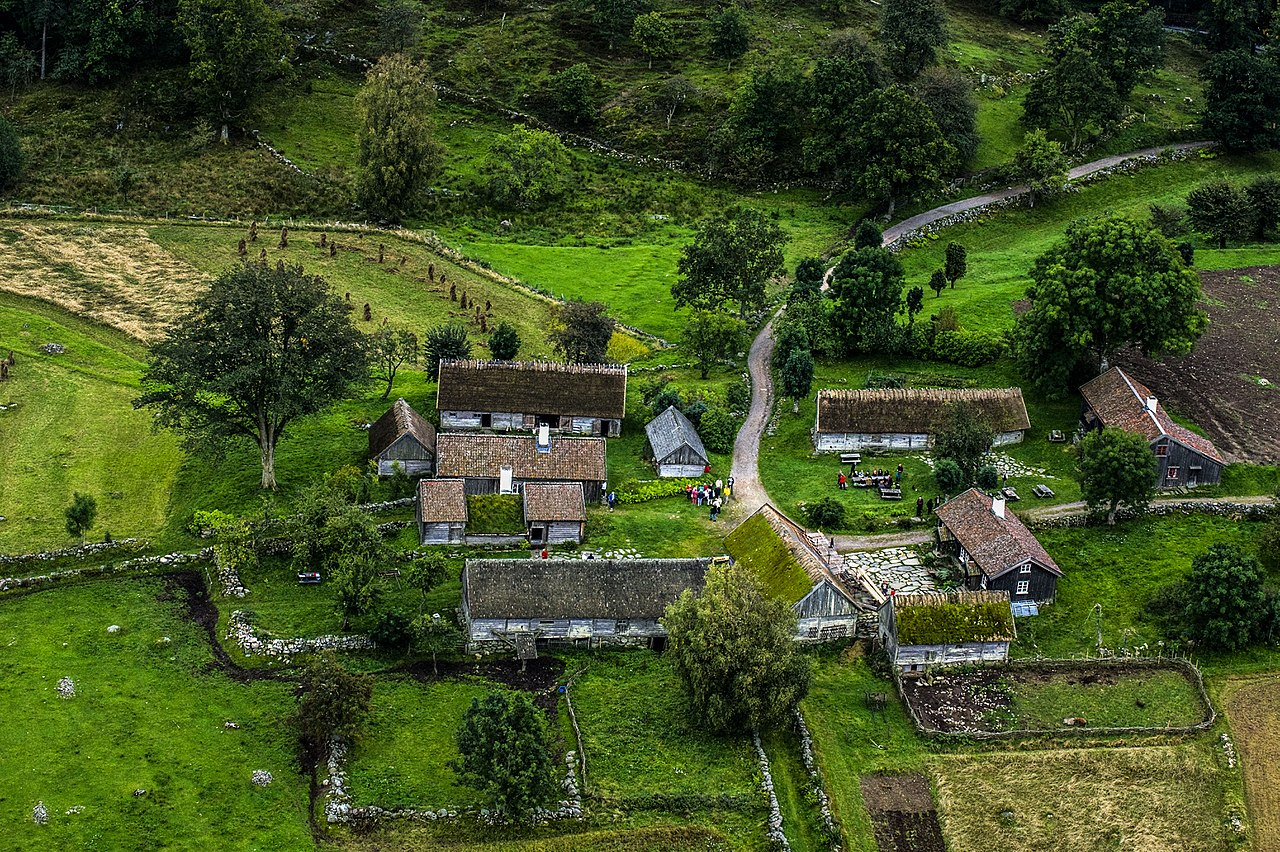
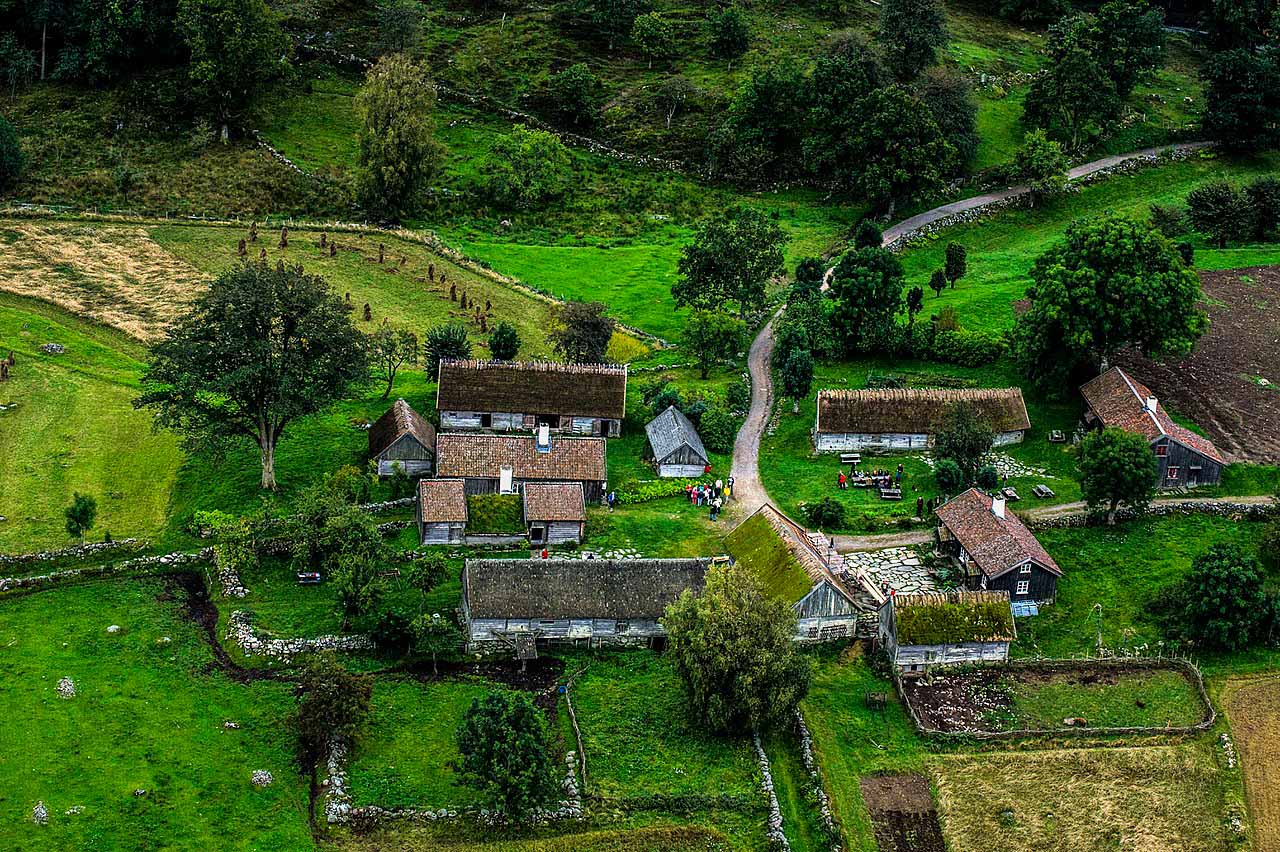
bild storlek
Ändrat bildstorlekarna på bilderna. Rensat onördig kod

diff --git a/Utflykter.html b/Utflykter.html
@@ -45,13 +45,13 @@
   <div id="slideshow1" class="phone">
     <div id="slideshow-container">
       <div class="slideshow_1">
-        <img src="img/Utflykter_bohus_1.1.jpg" alt="Bild på bohus fästning ovanifrån">
+        <img src="img/Utflykter_bohus_1.jpg" alt="Bild på bohus fästning ovanifrån">
       </div>
       <div class="slideshow_1">
-        <img src="img/Utflykter_bohus_2.2.jpg" alt="Bild på bohus fästning inifrån">
+        <img src="img/Utflykter_bohus_2.jpg" alt="Bild på bohus fästning inifrån">
       </div>
       <div class="slideshow_1"> 
-        <img src="img/Utflykter_bohus_3.3.jpg" alt="Bild på bohus fästning ovanifrån">
+        <img src="img/Utflykter_bohus_3.jpg" alt="Bild på bohus fästning ovanifrån">
       </div>
       <a class="prev" onclick="plusSlides(-1, 0)">&#10094;</a>
       <a class="next" onclick="plusSlides(1, 0)">&#10095;</a>
@@ -151,7 +151,7 @@
       </div>
 
       <div id="pic_1_d" class="desktop">
-      <img src="img/Utflykter_bohus_dator.jpg" alt="">
+      <img src="img/Utflykter_bohus_dator.jpg" alt="Bild på bohus fästning">
       </div>
       <div id="txt_1_d" class="desktop">
         <h2>1. Bohus fästning – En spännande historia</h2>
@@ -165,7 +165,7 @@
       </div>
 
       <div id="pic_2_d" class="desktop">
-      <img src="img/Utflykter_äskhults_by_dator.jpg" alt="">
+      <img src="img/Utflykter_äskhults_by_dator.jpg" alt="Bild på äskhults by">
       </div>
       <div id="txt_2_d" class="desktop">
         <h2>2. Äskhults By – En resa tillbaka</h2>
@@ -179,7 +179,7 @@
       </div>
 
       <div id="pic_3_d" class="desktop">
-      <img src="img/Utflykter_kättilsröds-4h_dator.jpg" alt="">
+      <img src="img/Utflykter_kättilsröds-4h_dator.jpg" alt="Bild på kättilsröds-4h gård">
       </div>
       <div id="txt_3_d" class="desktop">
         <h2>3. Kättilsröds 4H-gård – Lekfull bondgård</h2>
@@ -193,7 +193,7 @@
       </div>
 
       <div id="pic_4_d" class="desktop">
-        <img src="img/Utflykter_aeroseum_dator.jpg" alt="">
+        <img src="img/Utflykter_aeroseum_dator.jpg" alt="Bild på museumet aeroseum">
       </div>
       <div id="txt_4_d" class="desktop">
         <h2>4. Aeroseum - Flygmuseum i Göteborg</h2>

diff --git a/css/css.css b/css/css.css
@@ -585,18 +585,12 @@ h1{
         grid-area: b1;
         position: relative;
         overflow: hidden;
-        background-image: url(../img/Adobe\ Express\ -\ file\ \(1\).jpg);
+        background-image: url(../img/Index_1.jpg);
         background-size: cover; 
         background-repeat: no-repeat;
         background-position: center center;        
     }
-  
-    #img1 img {
-        width: 100%;
-        height: auto;
-        display: block;
-        
-    }
+
 
     #img2 {
         padding: 20px;
@@ -604,7 +598,6 @@ h1{
         overflow: hidden;
         box-sizing: border-box;
     }
-
   
     #img2 img {
        border-radius: 10px;   

diff --git a/Forum.html b/Forum.html
@@ -22,7 +22,6 @@
   <div id="wrapper_3">
   
     <header>
-      
       <h1>Utflykts<span class="kompassen">kompassen</span></h1>
       <div class="container" onclick="transform(this)">
         <div class="bar1"></div>
@@ -65,7 +64,7 @@
             <input type="email" id="email" placeholder="Email*" required>
           </div>
           <div id="text">
-            <textarea name="massage" placeholder="Beskriv platsen...*" rows="5" required></textarea>
+            <textarea name="massage" placeholder="Beskriv platsen...*" required></textarea>
           </div>
           <div>
             <input type="file" id="file">
